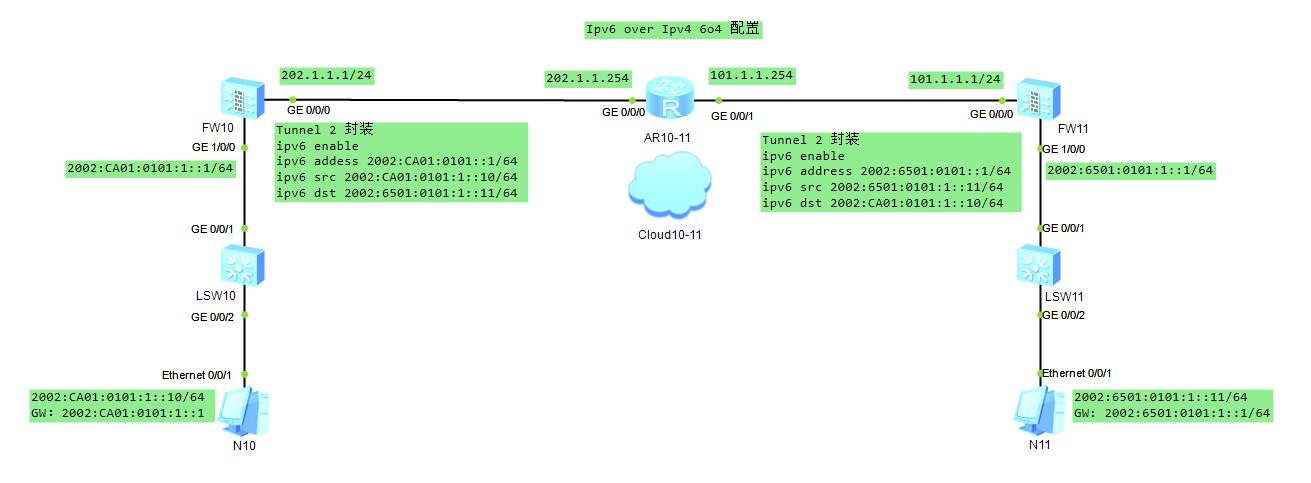
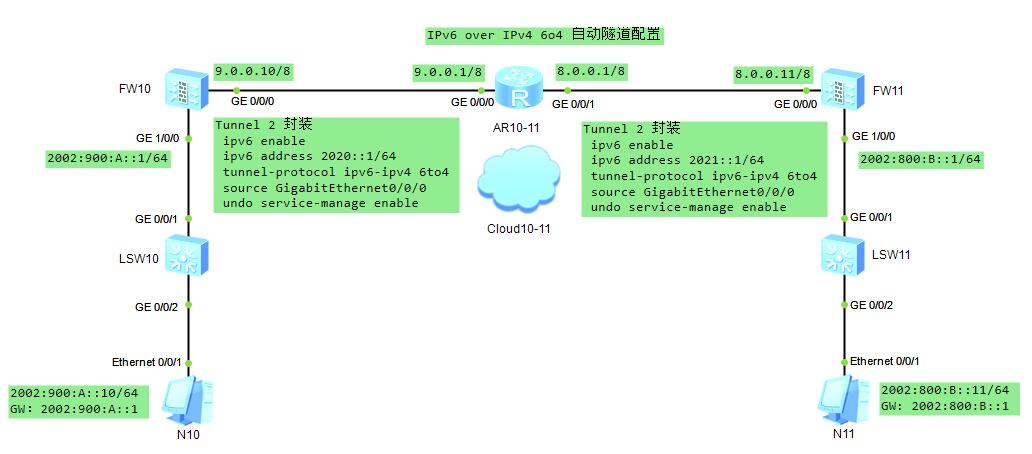
fix 6o4.md

Changed region(s): [[0.0, 0.0308, 0.9612, 0.9868], [0.7752, 0.7401, 0.9922, 0.9868]]

diff --git a/communication/tunnel/6o4.md b/communication/tunnel/6o4.md
@@ -1,98 +1,71 @@
 ### Ipv6 over Ipv4 自动隧道
 ![Image](./../common/6o4.jpg)
 #### 配置教程
-* GigabitEthernet 0/0/0
+* 第一步 FW10 GE 0/0/0 ping FW11 GE 0/0/0
 ```sh
-[USG6000V1-GigabitEthernet0/0/0]dis this
- ip address 202.1.1.1 255.255.255.0
- undo service-manage enable
+# 接口配置
+[FW10-GigabitEthernet0/0/0]dis this                   [AR10-11-GigabitEthernet0/0/0]dis this             [FW11-GigabitEthernet0/0/0]dis this
+ undo shutdown                                         ip address 9.0.0.1 255.0.0.0                       undo shutdown
+ ip address 9.0.0.10 255.0.0.0                        [AR10-11-GigabitEthernet0/0/1]dis this              ip address 8.0.0.11 255.0.0.0
+ undo service-manage enable                            ip address 8.0.0.1 255.0.0.0                       undo service-manage enable
+# 安全域配置
+[FW10]firewall zone trust                                                                                [FW11]firewall zone trust
+[FW10-zone-trust]dis this                                                                                [FW11-zone-trust]dis this
+ add interface GigabitEthernet0/0/0                                                                       add interface GigabitEthernet0/0/0
+# 安全策略配置
+[FW10]security-policy                                                                                    [FW11]security-policy
+[FW10-policy-security]dis this                                                                           [FW11-policy-security]dis this
+ default action permit                                                                                    default action permit
+# 静态路由配置
+[FW10]display current-configuration | inc route-static                                                   [FW11]display current-configuration | inc route-static
+ip route-static 0.0.0.0 0.0.0.0 9.0.0.1                                                                  ip route-static 0.0.0.0 0.0.0.0 8.0.0.1
+# ping 通检查
 ```
-* Tunnel 2
+* 第二步 6o4 隧道配置
 ```sh
-[USG6000V1-Tunnel2]dis this
- ipv6 enable
- ipv6 address 2002:CA01:101::1/64
- tunnel-protocol ipv6-ipv4 6to4
- source GigabitEthernet0/0/0
- undo service-manage enable
+[FW10-Tunnel2]dis this                                   [FW11-Tunnel2]dis this
+ ipv6 enable                                              ipv6 enable
+ # 只能配IPv6 接口IP无实际意义
+ ipv6 address 2020::1/64                                  ipv6 address 2021::1/64
+ tunnel-protocol ipv6-ipv4 6to4                           tunnel-protocol ipv6-ipv4 6to4
+ source GigabitEthernet0/0/0                              source GigabitEthernet0/0/0
+ undo service-manage enable                               undo service-manage enable
+# ipv6 全局使能 使 Tunnel up
+[FW10]ipv6                                               [FW11]ipv6
+# 查看 tunnel 接口是否 up
+[FW10]display ipv6 interface brief                       [FW11]display ipv6 interface brief
+# 安全域配置
+[FW10]firewall zone trust                                [FW11]firewall zone trust
+[FW10-zone-trust]dis this                                [FW11-zone-trust]dis this
+ add interface GigabitEthernet0/0/0                       add interface GigabitEthernet0/0/0
+ add interface Tunnel2                                    add interface Tunnel2
 ```
-* ipv6 全局使能 使 Tunnel up
-* GigabitEthernet1/0/0
+* 收尾
 ```sh
-[USG6000V1-GigabitEthernet1/0/0]dis this
- undo shutdown
- ipv6 enable
- ipv6 address 2002:CA01:101:1::1/64
- undo service-manage enable
-```
-* 安全域
-```sh
-[USG6000V1]firewall zone trust 
-[USG6000V1-zone-trust]dis this
- add interface GigabitEthernet0/0/0
- add interface GigabitEthernet1/0/0
- add interface Tunnel2
-```
-* 安全策略
-```sh
-[USG6000V1]security-policy 
-[USG6000V1-policy-security]dis this
- default action permit
-```
-* 静态路由
-```sh
-[USG6000V1]display current-configuration | inc route-static
-ip route-static 0.0.0.0 0.0.0.0 202.1.1.254 # 封装之后怎么走
-ipv6 route-static 2002:6501:101:1:: 64 Tunnel2 # 引流
-```
-
-#### FW11 配置
-* GigabitEthernet 0/0/0
-```sh
-[USG6000V1-GigabitEthernet0/0/0]dis this
- ip address 101.1.1.1 255.255.255.0
- undo service-manage enable
-```
-* Tunnel 2
-```sh
-[USG6000V1-Tunnel2]dis this
- ipv6 enable
- ipv6 address 2002:6501:101::1/64
- tunnel-protocol ipv6-ipv4 6to4
- source GigabitEthernet0/0/0
- undo service-manage enable
-```
-* ipv6 全局使能 使 Tunnel up
-* GigabitEthernet1/0/0
-```sh
-[USG6000V1-GigabitEthernet1/0/0]dis this
- undo shutdown
- ipv6 enable
- ipv6 address 2002:6501:101:1::1/64
- undo service-manage enable
-```
-* 安全域
-```sh
-[USG6000V1]firewall zone trust 
-[USG6000V1-zone-trust]dis this
- add interface GigabitEthernet0/0/0
- add interface GigabitEthernet1/0/0
- add interface Tunnel2
-```
-* 安全策略
-```sh
-[USG6000V1]security-policy 
-[USG6000V1-policy-security]dis this
- default action permit
-```
-* 静态路由
-```sh
-[USG6000V1]display current-configuration | inc route-static
-ip route-static 0.0.0.0 0.0.0.0 101.1.1.254 # 封装之后怎么走
-ipv6 route-static 2002:CA01:101:1:: 64 Tunnel2 # 引流
+# 接口配置
+[FW10-GigabitEthernet1/0/0]dis this                      [FW11-GigabitEthernet1/0/0]dis this
+ undo shutdown                                            undo shutdown
+ ipv6 enable                                              ipv6 enable
+ ipv6 address 2002:900:A::1/64                          ipv6 address 2002:800:B::1/64
+ undo service-manage enable                               undo service-manage enable
+# 安全域配置
+[FW10-zone-trust]dis this                                [FW11-zone-trust]dis this
+ add interface GigabitEthernet0/0/0                       add interface GigabitEthernet0/0/0
+ add interface GigabitEthernet1/0/0                       add interface GigabitEthernet1/0/0
+ add interface Tunnel2                                    add interface Tunnel2
+# PC N10                                                 PC N11
+2002:900:A::10/64                                        2002:800:B::11/64
+GW：2002:900:A::1                                        GW: 2002:800:B::1
+# PC ping GW check
+# 引流路由配置
+[FW10]display current-configuration | inc route-static   [FW11]display current-configuration | inc route-static
+ip route-static 0.0.0.0 0.0.0.0 9.0.0.1                  ip route-static 0.0.0.0 0.0.0.0 8.0.0.1
+ipv6 route-static 2002:800:B:: 64 Tunnel2                ipv6 route-static 2002:900:A:: 64 Tunnel2
+# PC N10 ping PC N11 check
+# 完结撒花
 ```
 #### 基本检查
-* ping -a 202.1.1.1 101.1.1.1 (必须通，否则无隧道可言)
+* ping -a 9.0.0.10 8.0.0.11 (必须通，否则无隧道可言)
 * 主机相互 ping
 #### 基本命令
 * display current-configuration | inc route-static
